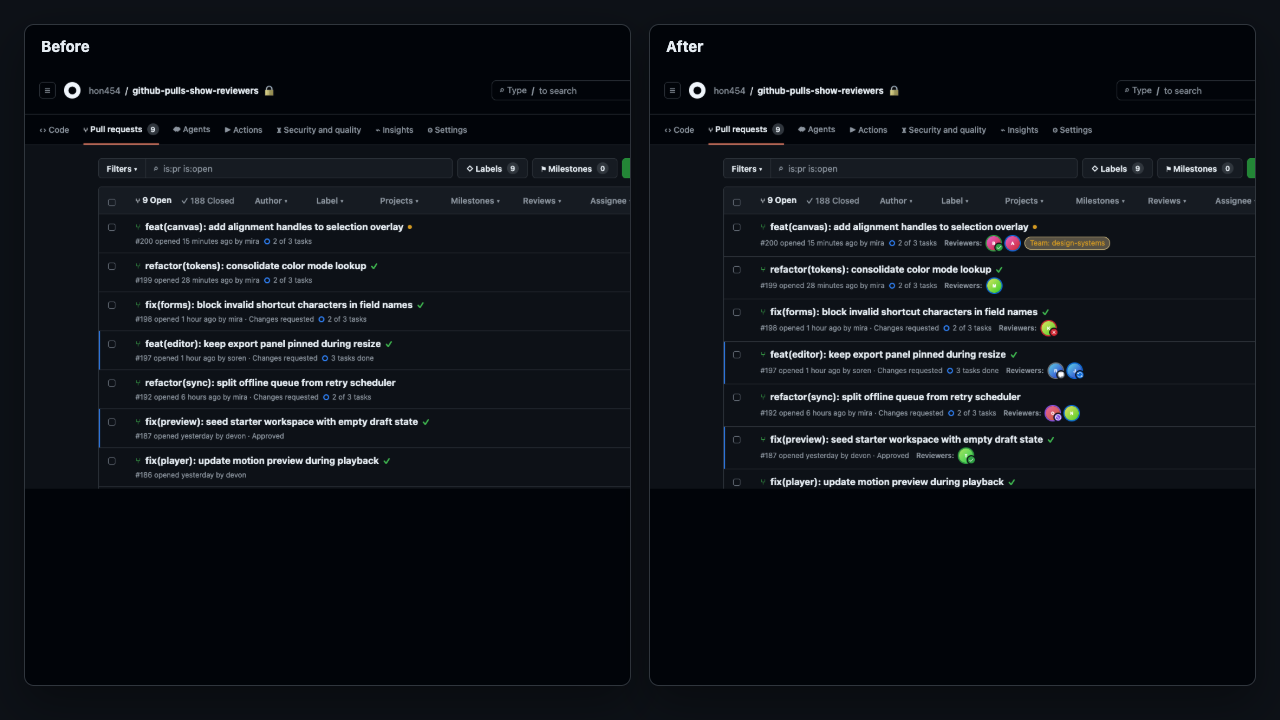
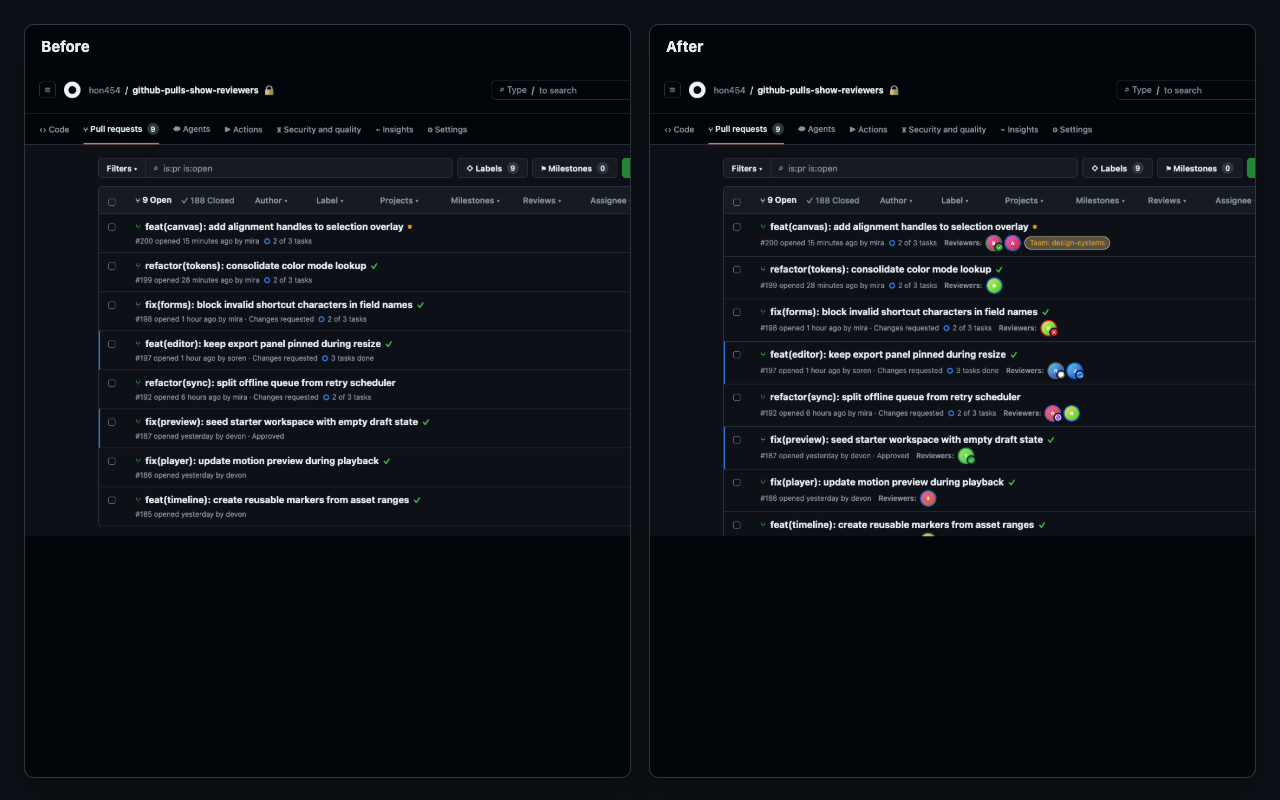
fix: generate compliant CWS screenshots

diff --git a/tests/e2e/capture-cws-assets.spec.ts b/tests/e2e/capture-cws-assets.spec.ts
@@ -10,6 +10,12 @@ const projectRoot = path.resolve(currentDir, "../..");
 const extensionPath = path.join(projectRoot, ".output/chrome-mv3");
 const outputDir = path.join(projectRoot, "docs/chrome-web-store-assets");
 const pullsFixturePath = path.join(projectRoot, "tests/fixtures/github-pulls.html");
+const storeScreenshotSize = { width: 1280, height: 800 } as const;
+const storeScreenshotFiles = [
+  "01-pr-list-before-after.png",
+  "02-pr-list-avatar-state-showcase.png",
+  "03-options-repository-check.png",
+] as const;
 
 const screenshotRepo = {
   owner: "hon454",
@@ -26,6 +32,12 @@ type ReviewPayload = {
   user: { login: string; avatar_url: string };
 };
 
+type ReviewRequestEventPayload = {
+  event: "review_requested";
+  created_at: string;
+  requested_reviewer: { login: string; avatar_url: string };
+};
+
 type PullScene = {
   pullNumber: string;
   summary: {
@@ -34,6 +46,7 @@ type PullScene = {
     requested_teams: Array<{ slug: string }>;
   };
   reviews: ReviewPayload[];
+  reviewRequestEvents?: ReviewRequestEventPayload[];
   expectedLogins: string[];
   expectedTeamText?: string;
   expectedBadgeClasses: string[];
@@ -112,6 +125,13 @@ const avatarStateScenes: PullScene[] = [
         state: "COMMENTED",
         submitted_at: "2026-04-20T12:15:00Z",
         user: { login: "riley", avatar_url: avatarUrl("riley") },
+      },
+    ],
+    reviewRequestEvents: [
+      {
+        event: "review_requested",
+        created_at: "2026-04-20T12:12:00Z",
+        requested_reviewer: { login: "jules", avatar_url: avatarUrl("jules") },
       },
     ],
     expectedLogins: ["jules", "riley"],
@@ -196,6 +216,7 @@ test("capture Chrome Web Store assets", async () => {
     await captureBeforeAfterScreenshot(context);
     await captureAvatarStateShowcase(context);
     await captureOptionsScreenshot(context, extensionId);
+    await assertStoreScreenshotFiles();
   });
 });
 
@@ -208,7 +229,7 @@ async function withExtensionContext(
   const userDataDir = await mkdtemp(path.join(os.tmpdir(), "ghpsr-cws-"));
   const context = await chromium.launchPersistentContext(userDataDir, {
     channel: "chromium",
-    viewport: { width: 1280, height: 720 },
+    viewport: storeScreenshotSize,
     args: [
       `--disable-extensions-except=${extensionPath}`,
       `--load-extension=${extensionPath}`,
@@ -234,7 +255,7 @@ async function withPlainContext(
   const userDataDir = await mkdtemp(path.join(os.tmpdir(), "ghpsr-cws-plain-"));
   const context = await chromium.launchPersistentContext(userDataDir, {
     channel: "chromium",
-    viewport: { width: 1280, height: 720 },
+    viewport: storeScreenshotSize,
   });
 
   try {
@@ -296,7 +317,8 @@ async function routeReviewerScenes(
   for (const scene of scenes) {
     const pullRoute = `https://api.github.com/repos/${screenshotRepoFullName}/pulls/${scene.pullNumber}`;
     const reviewsRoute = `${pullRoute}/reviews**`;
-    routeUrls.push(pullRoute, reviewsRoute);
+    const eventsRoute = `https://api.github.com/repos/${screenshotRepoFullName}/issues/${scene.pullNumber}/events**`;
+    routeUrls.push(pullRoute, reviewsRoute, eventsRoute);
 
     await context.route(pullRoute, async (route) => {
       await route.fulfill({
@@ -311,6 +333,14 @@ async function routeReviewerScenes(
         status: 200,
         contentType: "application/json",
         body: JSON.stringify(scene.reviews),
+      });
+    });
+
+    await context.route(eventsRoute, async (route) => {
+      await route.fulfill({
+        status: 200,
+        contentType: "application/json",
+        body: JSON.stringify(scene.reviewRequestEvents ?? []),
       });
     });
   }
@@ -331,7 +361,10 @@ async function assertReviewerScenes(page: Page, scenes: PullScene[]): Promise<vo
       await expect(root.locator(`a.ghpsr-avatar[title*="@${login}"]`)).toHaveCount(1);
     }
     for (const badgeClass of scene.expectedBadgeClasses) {
-      expect(await root.locator(`.${badgeClass}`).count()).toBeGreaterThan(0);
+      expect(
+        await root.locator(`.${badgeClass}`).count(),
+        `${badgeClass} should render in the screenshot fixture`,
+      ).toBeGreaterThan(0);
     }
     if (scene.expectedTeamText != null) {
       await expect(root.filter({ hasText: scene.expectedTeamText })).toHaveCount(1);
@@ -416,7 +449,7 @@ async function captureBeforeAfterScreenshot(
   try {
     const beforeData = (await readFile(beforePath)).toString("base64");
     const afterData = (await readFile(afterPath)).toString("base64");
-    await composer.setViewportSize({ width: 1280, height: 720 });
+    await composer.setViewportSize(storeScreenshotSize);
     await composer.setContent(`
       <!doctype html>
       <html>
@@ -428,8 +461,8 @@ async function captureBeforeAfterScreenshot(
               font-family: -apple-system, BlinkMacSystemFont, "Segoe UI", sans-serif;
             }
             .frame {
-              width: 1280px;
-              height: 720px;
+              width: ${storeScreenshotSize.width}px;
+              height: ${storeScreenshotSize.height}px;
               box-sizing: border-box;
               padding: 24px;
               display: grid;
@@ -437,7 +470,7 @@ async function captureBeforeAfterScreenshot(
               gap: 18px;
             }
             .panel {
-              height: 660px;
+              height: ${storeScreenshotSize.height - 48}px;
               overflow: hidden;
               border: 1px solid #30363d;
               border-radius: 10px;
@@ -481,6 +514,20 @@ async function captureBeforeAfterScreenshot(
     await composer.close();
     await rm(beforePath, { force: true });
     await rm(afterPath, { force: true });
+  }
+}
+
+async function assertStoreScreenshotFiles(): Promise<void> {
+  expect(storeScreenshotFiles.length).toBeGreaterThanOrEqual(1);
+  expect(storeScreenshotFiles.length).toBeLessThanOrEqual(5);
+
+  for (const fileName of storeScreenshotFiles) {
+    const png = await readFile(path.join(outputDir, fileName));
+    expect(png.toString("ascii", 1, 4)).toBe("PNG");
+    expect(png.readUInt32BE(16)).toBe(storeScreenshotSize.width);
+    expect(png.readUInt32BE(20)).toBe(storeScreenshotSize.height);
+    expect(png.readUInt8(24)).toBe(8);
+    expect(png.readUInt8(25)).toBe(2);
   }
 }
 

diff --git a/docs/chrome-web-store.md b/docs/chrome-web-store.md
@@ -7,6 +7,7 @@
 - Packaged icon sizes: `16`, `32`, `48`, `128`.
 - Rebuild PNG assets with `pnpm icons:render`.
 - Chrome Web Store screenshots are generated under [chrome-web-store-assets/](./chrome-web-store-assets/) with `pnpm cws:assets`.
+- Generated screenshots are `1280x800` 24-bit PNG files without alpha, matching Chrome Web Store upload requirements.
 - The pull-list screenshots use a deterministic GitHub-style fixture for `hon454/github-pulls-show-reviewers` with generated PR titles, authors, reviewer states, and synthetic avatar images. Do not create live dummy PRs for store screenshots.
 - Current screenshot set:
   - `01-pr-list-before-after.png` — before/after comparison showing GitHub's default PR list beside the extension-enhanced reviewer strip

diff --git a/docs/chrome-web-store-submission.md b/docs/chrome-web-store-submission.md
@@ -33,6 +33,8 @@ Chrome's listing guidance expects at least one screenshot and recommends up to f
 - `03-options-repository-check.png`
   Dashboard caption: `Display settings and repository diagnostics on the options page.`
 
+All generated screenshots are `1280x800` 24-bit PNG files without alpha, so they satisfy Chrome Web Store's screenshot upload constraints.
+
 The PR-list screenshots are generated from a deterministic GitHub-style fixture for `hon454/github-pulls-show-reviewers` with synthetic PR titles, authors, reviewer states, and avatar images. They should remain realistic enough for store review while avoiding live dummy PRs, real project data, and unrelated UI noise such as floating help buttons.
 
 Regenerate them with:
